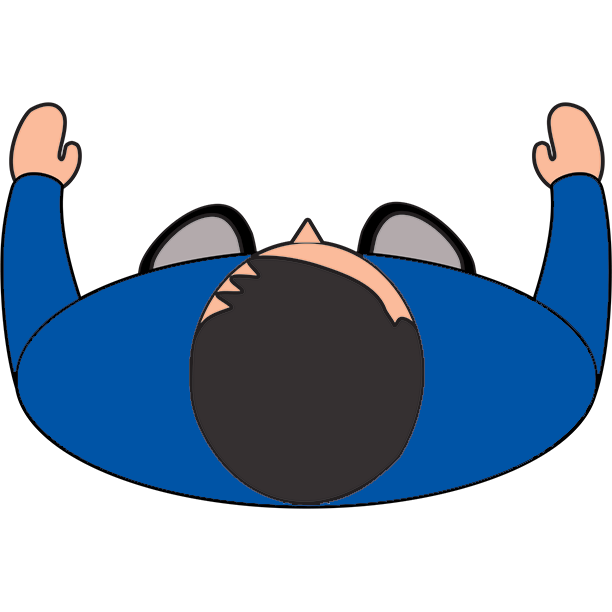
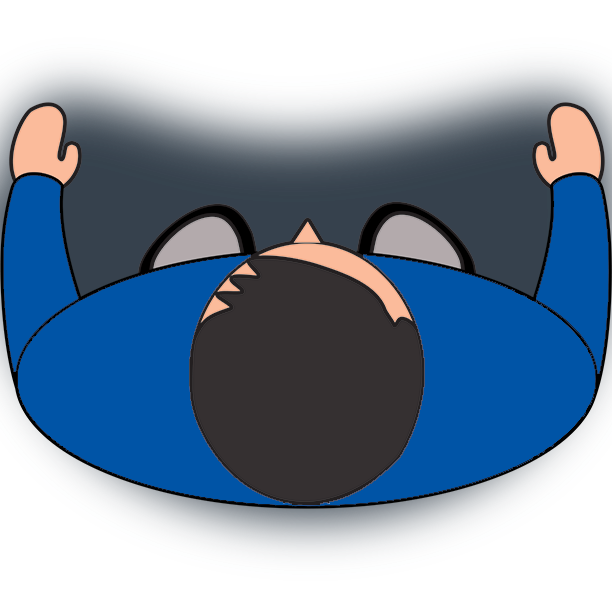
updates stimuli to have shadows

diff --git a/src/js/core/trial.js b/src/js/core/trial.js
@@ -148,7 +148,6 @@ function runSingleTrial(
                     htmloutput += `<img src="${stimFolder}${allPeople[i]}.png" style = "position: absolute; top: ${all_points[i].y}px; left: ${all_points[i].x}px; width: ${imgPeopleWidth}px; transform: translate(-50%, -50%) rotate(${all_points[i].r}deg);"></img>`;
                 }
             };
-<<<<<<< HEAD
             if(group === "allSitting") {
                 htmloutput += `<img src="${stimFolder}/sitting/${allPeople[i]}.png" style = "position: absolute; top: ${all_points[i].y}px; left: ${all_points[i].x}px; width: ${imgPeopleWidth}px; transform: translate(-50%, -50%) rotate(${all_points[i].r}deg);"></img>`;
             };

diff --git a/src/js/core/params.js b/src/js/core/params.js
@@ -6,8 +6,8 @@ Defining Parameter Variables
 
 var stimFolder = 'src/assets/stimuli/people/'
 
-var runIntro = true;
-var runInstr = true;
+var runIntro = false;
+var runInstr = false;
 var runExpt = true;
 var runClose = true;
 var runPreload = true;
